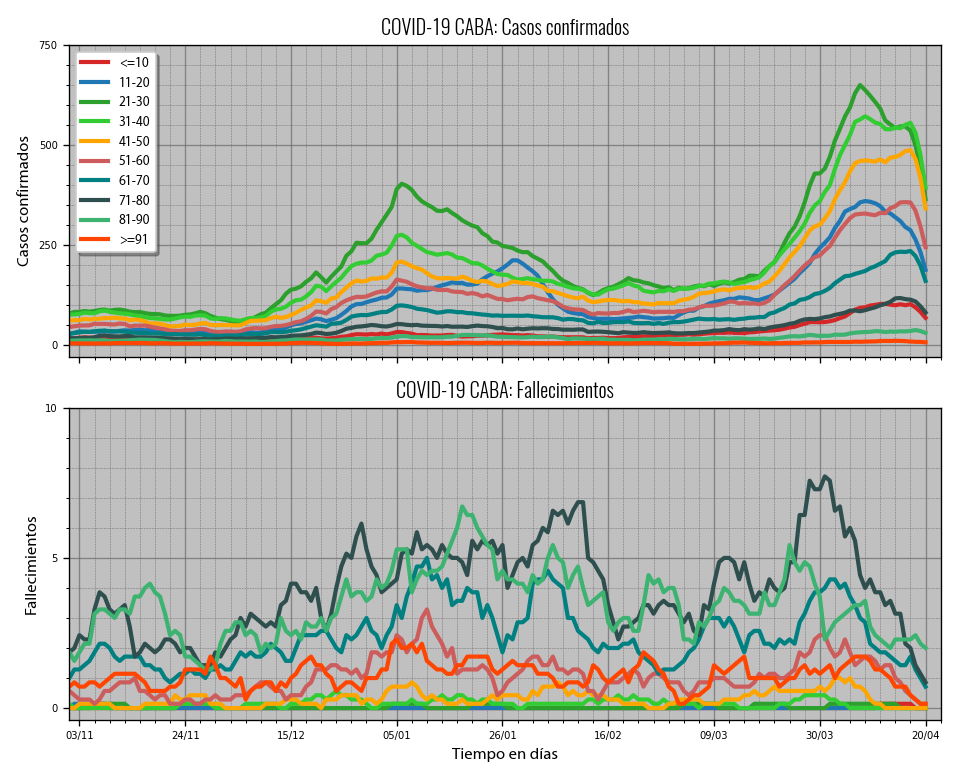
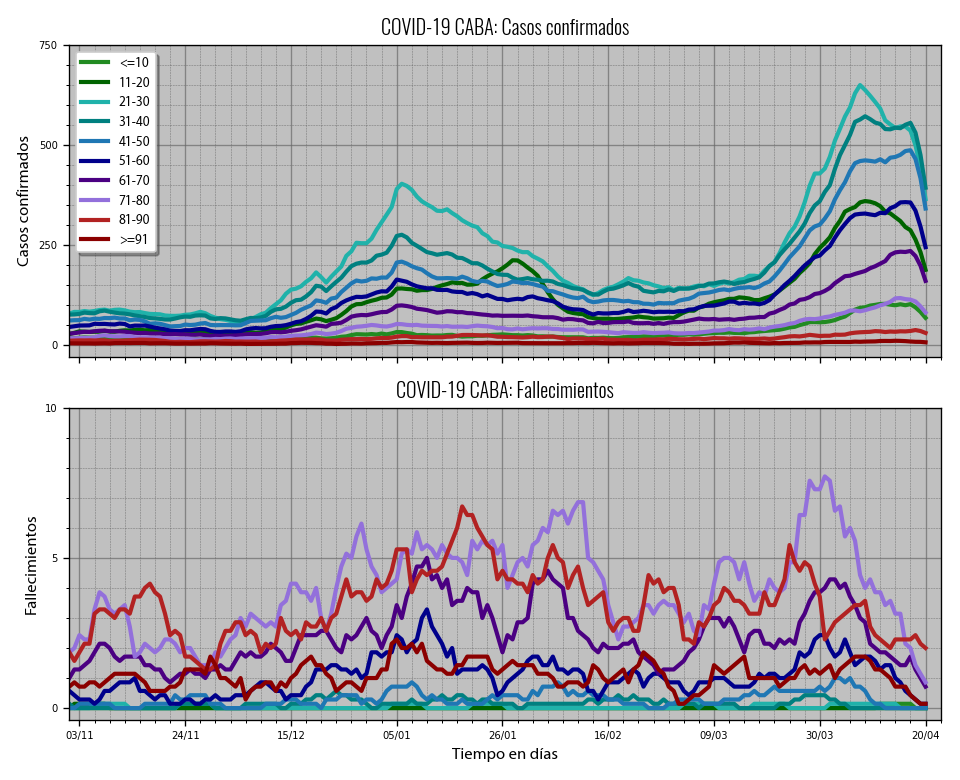
Adding cases by zone chart...

Changed region(s): [[0.0625, 0.6154, 0.9688, 0.9231], [0.0625, 0.0923, 0.9688, 0.4615], [0.0625, 0.0615, 0.125, 0.3077]]

diff --git a/p_cases.py b/p_cases.py
@@ -87,7 +87,7 @@ def plot_cases_by_age_avg(y_minA, y_minB, ticks_interval_A, ticks_divisor_A, tic
 	confirmed = plt.subplot2grid((2, 1), (0, 0))
 	chart_texts = get_chart_texts("total_confirmed")
 	for i in range(len(age_groups)):
-		confirmed = d_byage_avg[0][age_groups[i]][cc.start_date:cc.end_date].plot(kind='line', label=age_groups[i], color=cc.colors[i], linewidth=2.5)
+		confirmed = d_byage_avg[0][age_groups[i]][cc.start_date:cc.end_date].plot(kind='line', label=age_groups[i], color=cc.a_colors[i], linewidth=2.5)
 	cc.build_texts(chart_texts[0], "", chart_texts[2])
 	cc.build_legend()
 	s = plt.ylim()
@@ -98,13 +98,38 @@ def plot_cases_by_age_avg(y_minA, y_minB, ticks_interval_A, ticks_divisor_A, tic
 	deaths = plt.subplot2grid((2, 1), (1, 0))
 	chart_texts = get_chart_texts("total_death")
 	for i in range(len(age_groups)):
-		deaths = d_byage_avg[1][age_groups[i]][cc.start_date:cc.end_date].plot(kind='line', label=age_groups[i], color=cc.colors[i], linewidth=2.5)
+		deaths = d_byage_avg[1][age_groups[i]][cc.start_date:cc.end_date].plot(kind='line', label=age_groups[i], color=cc.a_colors[i], linewidth=2.5)
 	cc.build_texts(chart_texts[0], chart_texts[1], chart_texts[2])
 	s = plt.ylim()
 	plt.xlim(xaxis[0], xaxis[1])
 	cc.grid_and_ticks(y_minB, s[1], ticks_interval_B, ticks_divisor_B, 0)
 	cc.ticks_locator(cc.week_interval)
 	cc.save_plot("totalcasesanddeathsbyage_avg", f, "E")
+
+def plot_cases_by_zone_avg(y_minA, y_minB, ticks_interval_A, ticks_divisor_A, ticks_interval_B, ticks_divisor_B):
+	print("-- Plotting cases by age...", end="\n")
+	f = figure(num=None, figsize=(cc.d_w, cc.d_h), dpi=cc.image_resolution, facecolor=cc.background_figure, edgecolor='k')
+	confirmed = plt.subplot2grid((2, 1), (0, 0))
+	chart_texts = get_chart_texts("total_confirmed")
+	for i in range(len(zone_keys)):
+		confirmed = d_byzone_avg[0][zone_keys[i]][cc.start_date:cc.end_date].plot(kind='line', label=zone_keys[i], color=cc.colors[i], linewidth=2.5)
+	cc.build_texts(chart_texts[0], "", chart_texts[2])
+	cc.build_legend()
+	s = plt.ylim()
+	xaxis = plt.xlim()
+	cc.grid_and_ticks(y_minA, s[1], ticks_interval_A, ticks_divisor_A, 0)
+	cc.ticks_locator(cc.week_interval)
+	plt.gca().xaxis.set_ticklabels([])
+	deaths = plt.subplot2grid((2, 1), (1, 0))
+	chart_texts = get_chart_texts("total_death")
+	for i in range(len(age_groups)):
+		deaths = d_byzone_avg[1][zone_keys[i]][cc.start_date:cc.end_date].plot(kind='line', label=zone_keys[i], color=cc.colors[i], linewidth=2.5)
+	cc.build_texts(chart_texts[0], chart_texts[1], chart_texts[2])
+	s = plt.ylim()
+	plt.xlim(xaxis[0], xaxis[1])
+	cc.grid_and_ticks(y_minB, s[1], ticks_interval_B, ticks_divisor_B, 0)
+	cc.ticks_locator(cc.week_interval)
+	cc.save_plot("totalcasesanddeathsbyzone_avg", f, "E")
 
 def plot_delay_evol(y_minA, y_minB, ticks_interval_A, ticks_divisor_A, ticks_interval_B, ticks_divisor_B):
 	print("-- Plotting delays...", end="\n")
@@ -147,6 +172,7 @@ texts_dict_es = {"total_confirmed": ["COVID-19 CABA: Casos confirmados", "Tiempo
 				"Hombres", "Mujeres", "Total"]}
 
 age_groups = ["<=10", "11-20", "21-30","31-40","41-50","51-60","61-70","71-80","81-90",">=91"]
+zone_keys = ["1","2","3","4","5","6","7","8","9","10","11","12","13","14","15"]
 
 def get_chart_texts(type):
 	texts = []

diff --git a/chart_config.py b/chart_config.py
@@ -16,7 +16,7 @@ background_figure = "white" #Default background color for figures
 major_grid_color = "dimgrey" #Default colors for grids...
 minor_grid_color = "dimgray"
 colors = ["tab:red", "tab:blue", "tab:green", "limegreen", "orange", "indianred", "teal", "darkslategray", \
-			"mediumseagreen", "orangered", "goldenrod", "dimgrey", "whitesmoke"]
+			"mediumseagreen", "orangered", "goldenrod", "dimgrey", "whitesmoke", "mediumpurple", "indigo"]
 a_colors = ["forestgreen", "darkgreen", "lightseagreen", "teal", "tab:blue", "darkblue", "indigo", \
 			"mediumpurple", "firebrick", "darkred"]
 alphaMGC = 0.7

diff --git a/p_trigger.py b/p_trigger.py
@@ -27,6 +27,7 @@ cases.plot_total_cases(0, 0, 50000, 1000, 1500, 1000)
 cases.plot_total_avg(0, 0, 500, 1, 15, 1)
 cases.plot_delay_evol(0, 0, 1, 1, 5, 1)
 cases.plot_cases_by_age_avg(0, 0, 250, 1, 5, 1)
+cases.plot_cases_by_zone_avg(0, 0, 75, 1, 1, 1)
 
 #Building analysis charts
 sis.plot_estimation_avg(0, 0, 2000, 1000, 0.25, 1)
